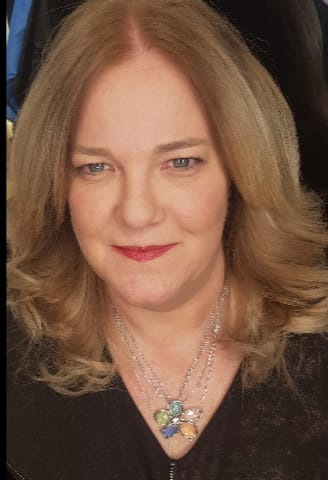
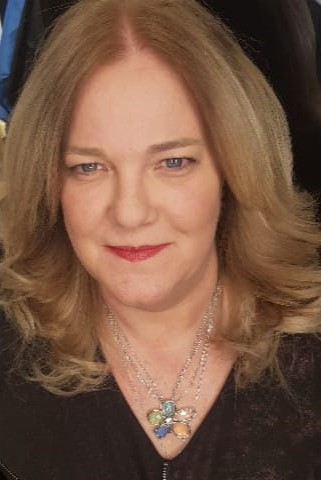
Fixed party members pics size

diff --git a/src/components/sections/party-platform/PartyPlatform.styles.tsx b/src/components/sections/party-platform/PartyPlatform.styles.tsx
@@ -1,8 +1,6 @@
 import styled from 'styled-components';
 type PictureVariant = 'switch-place' | 'left' | 'right' | 'none';
 
-//TODO: Change the size of the images (increase)
-
 export const HeadPartyContainter = styled.div`
     color: #03619f;
     display: flex;
@@ -79,6 +77,7 @@ export const PartyMember = styled.div<{ $variant: PictureVariant }>`
     }
     @media (min-width: 1281px) {
         padding: 3rem 18rem;
+        gap: 75px;
     }
 `;
 
@@ -87,13 +86,17 @@ export const PartyMemberPicture = styled.div<{
     $image: string;
 }>`
     background-image: url(${(props) => props.$image});
-    height: 12.5rem;
-    width: 12.5rem;
+    min-height: 17.5rem;
+    min-width: 17.5rem;
+    border-radius: 50%;
     background-repeat: no-repeat;
     background-size: cover;
-    border-radius: 50%;
+
     order: ${(props) => (props.$variant === 'switch-place' ? '1' : '0')};
     @media (max-width: 769px) {
+        height: 12.5rem;
+        width: 12.5rem;
+
         order: ${(props) => (props.$variant === 'switch-place' ? '-1' : '0')};
     }
 `;
